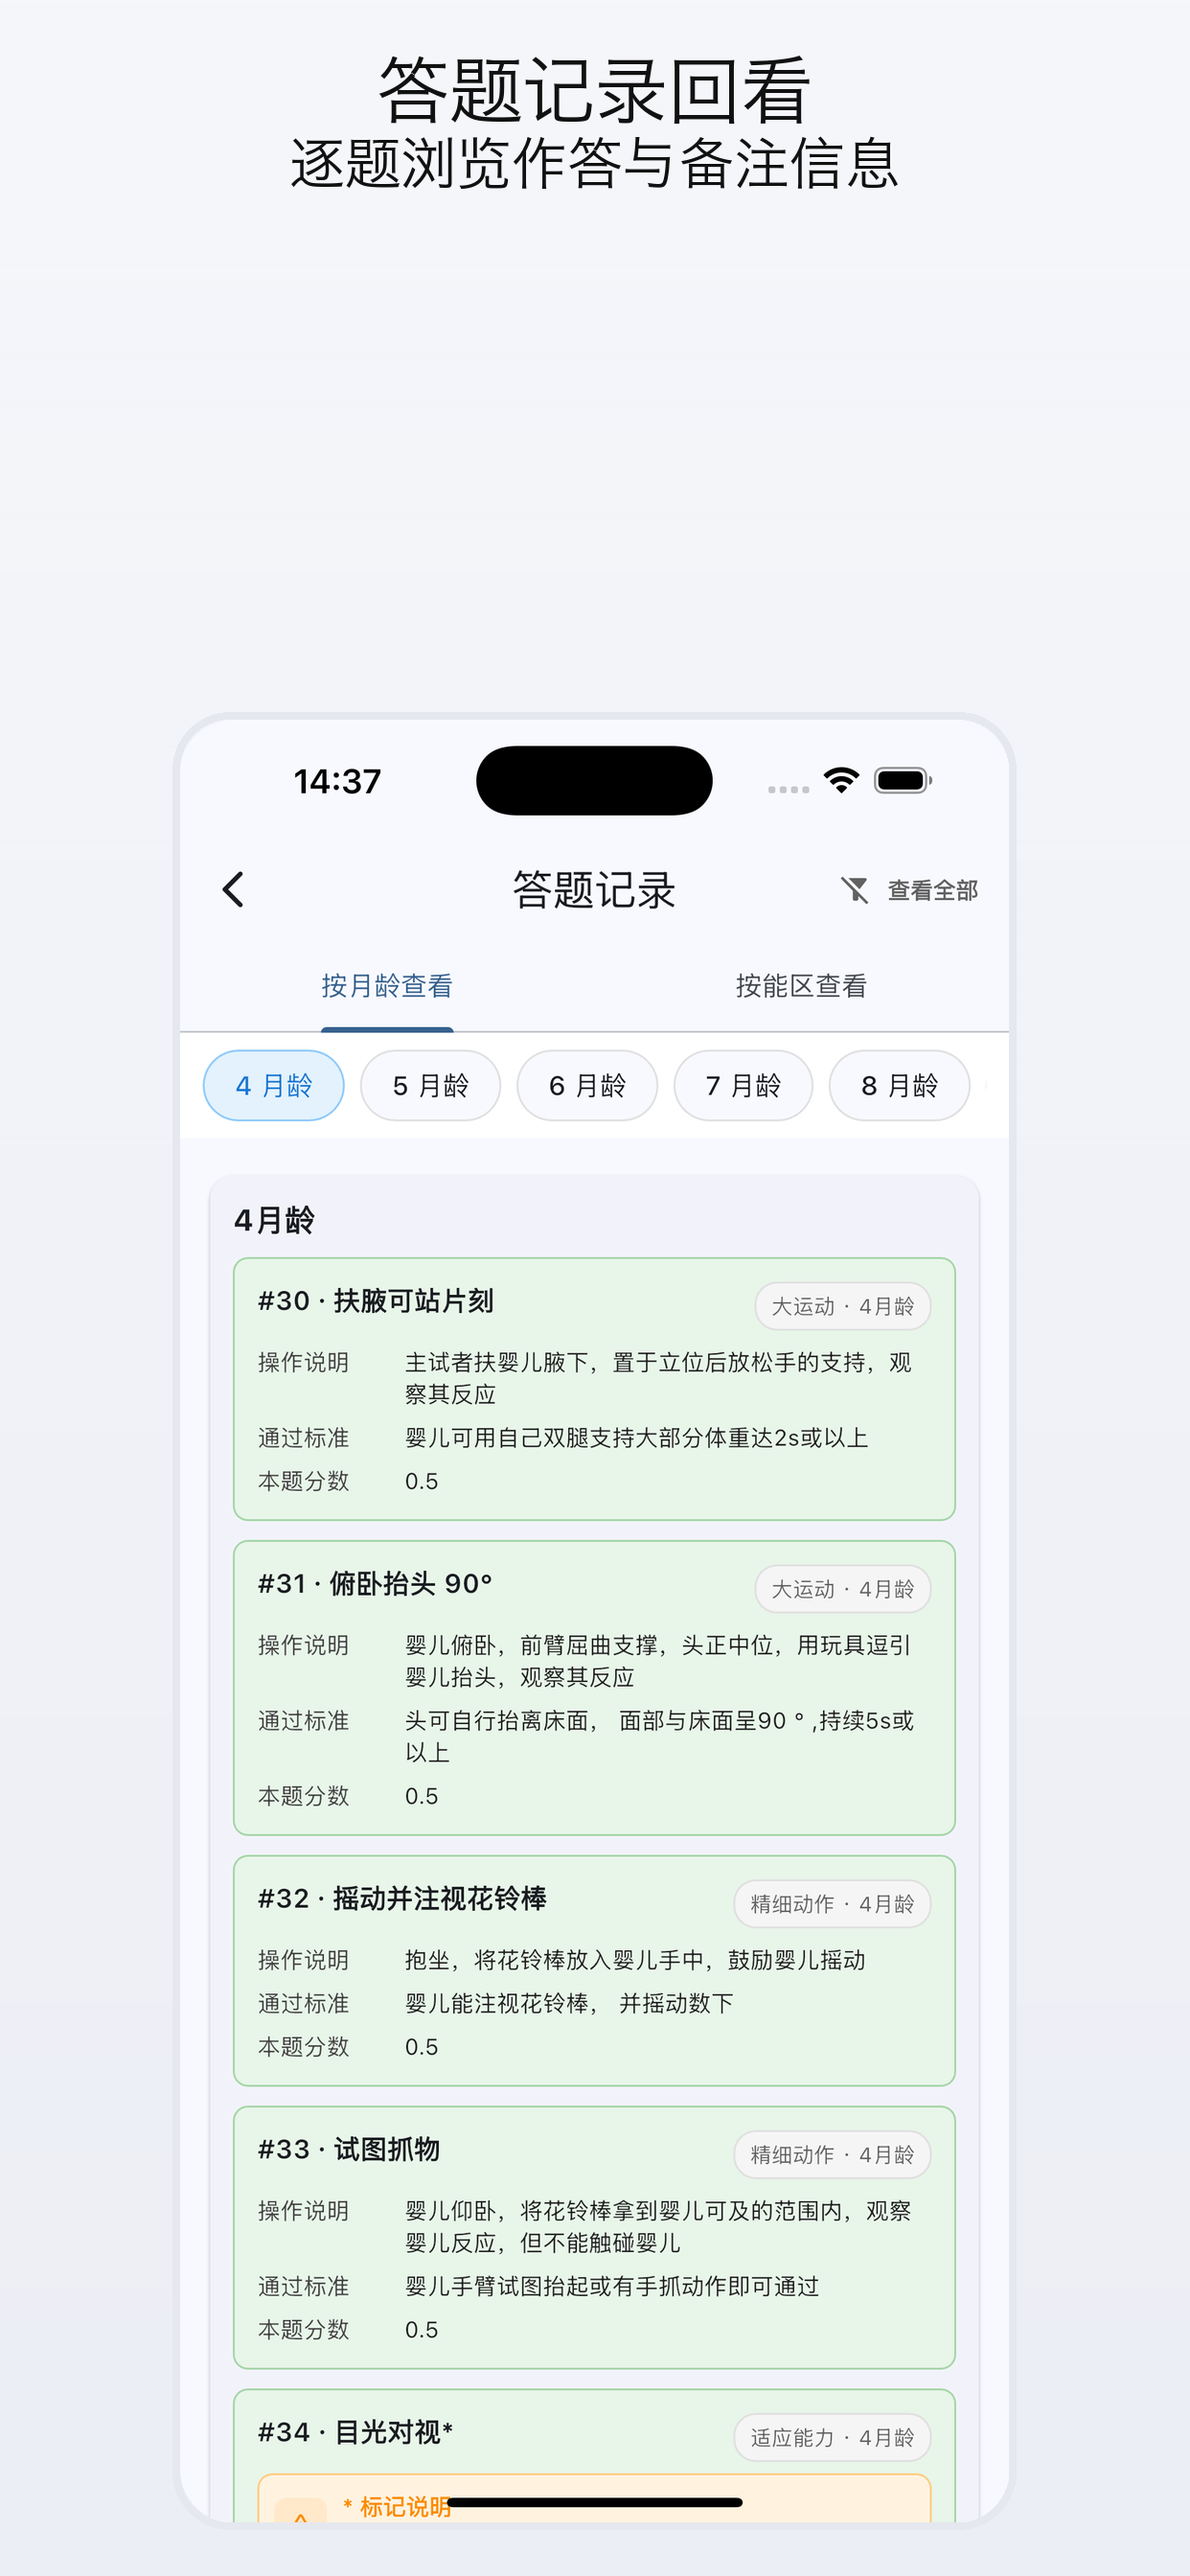
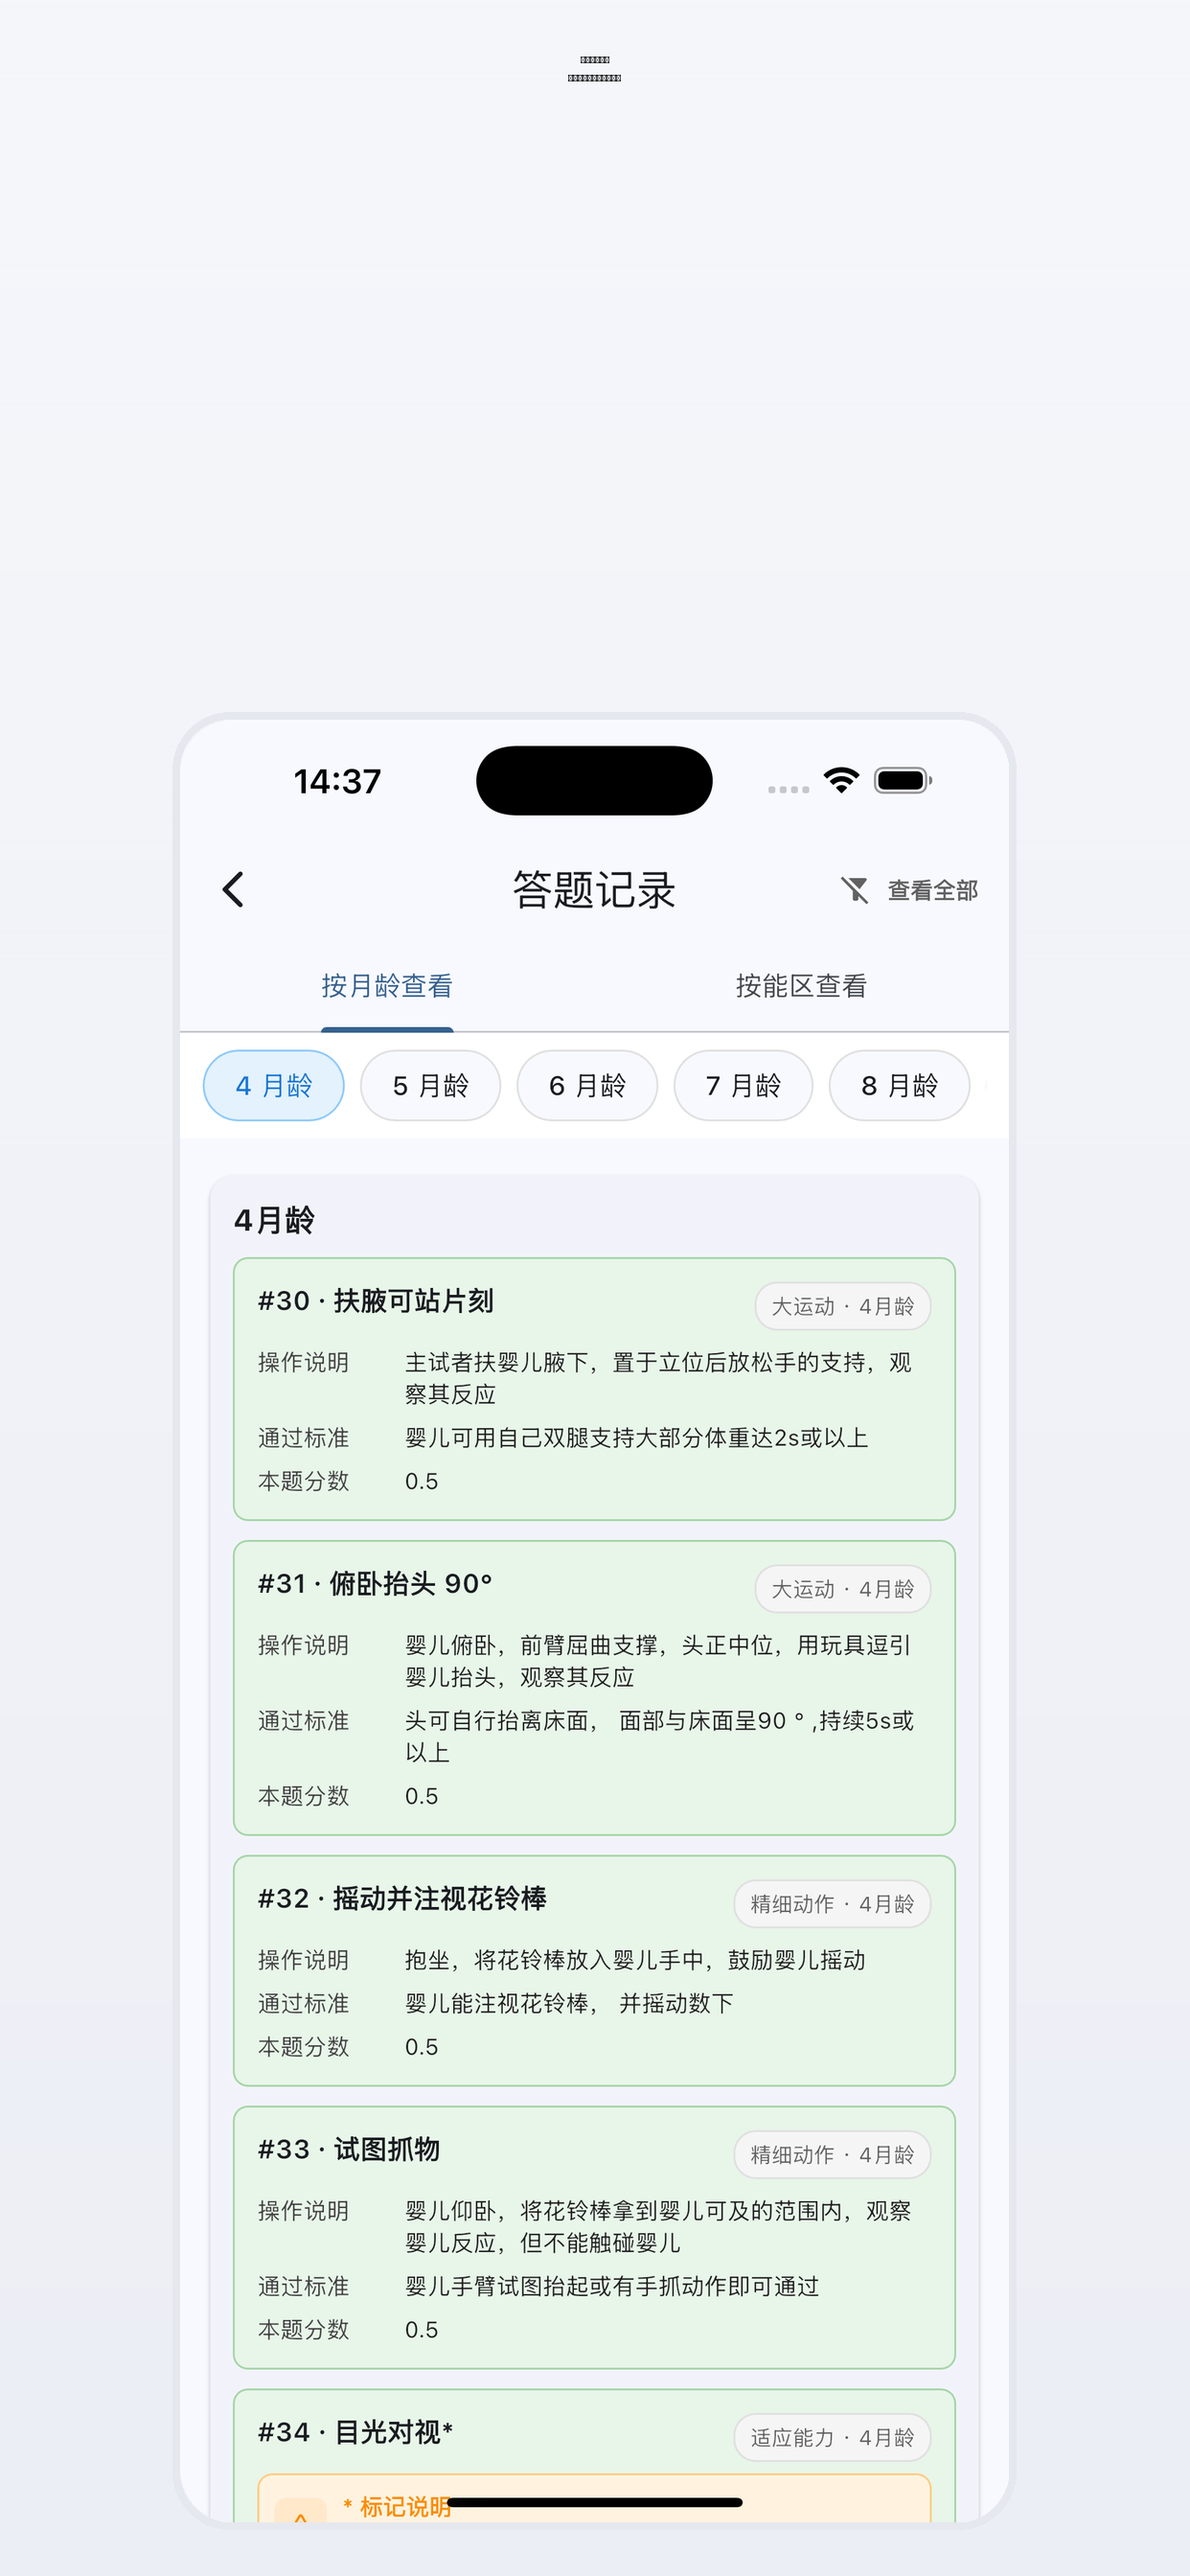
答题记录: 使用 Scrollable.ensureVisible 简化分段跳转；移除按月龄滚动监听避免与跳转冲突

Changed region(s): [[0.2448, 0.0, 0.7037, 0.0938]]

diff --git a/child_development_assessment/lib/pages/answer_record_page.dart b/child_development_assessment/lib/pages/answer_record_page.dart
@@ -43,7 +43,8 @@ class _AnswerRecordPageState extends State<AnswerRecordPage> with SingleTickerPr
     _tabController = TabController(length: 2, vsync: this);
     _tabController.addListener(_onTabChanged);
     _load();
-    _ageScrollController.addListener(_onAgeScroll);
+    // 简化：去掉按月龄视图的滚动监听，避免高亮逻辑影响跳转
+    // _ageScrollController.addListener(_onAgeScroll);
     _areaScrollController.addListener(_onAreaScroll);
   }
 
@@ -235,20 +236,18 @@ class _AnswerRecordPageState extends State<AnswerRecordPage> with SingleTickerPr
 
   void _scrollToAge(int age) {
     final key = _ageSectionKeys[age];
-    if (key?.currentContext == null) return;
-    final renderObject = key!.currentContext!.findRenderObject();
-    if (renderObject == null) return;
-    final viewport = RenderAbstractViewport.of(renderObject);
-    if (viewport == null) return;
-    final target = viewport.getOffsetToReveal(renderObject, 0).offset - 56; // 减去pinned header高度
-    final clamped = target.clamp(0.0, _ageScrollController.position.maxScrollExtent);
-    _ageScrollController.animateTo(
-      clamped,
+    final ctx = key?.currentContext;
+    if (ctx == null) return;
+    // 最简单可靠的方式：直接确保目标可见
+    Scrollable.ensureVisible(
+      ctx,
       duration: const Duration(milliseconds: 300),
       curve: Curves.easeInOut,
+      alignment: 0.0,
+      alignmentPolicy: ScrollPositionAlignmentPolicy.keepVisibleAtStart,
     );
-    // 动画结束后校正高亮
-    Future.delayed(const Duration(milliseconds: 320), _updateCurrentAgeSection);
+    // 直接设置当前高亮，避免依赖滚动监听
+    setState(() => _currentAgeSection = age);
   }
 
   // =============== 按能区查看 ===============

diff --git a/scripts/generate_appstore_screenshots.py b/scripts/generate_appstore_screenshots.py
@@ -144,6 +144,7 @@ def _open_font_candidates() -> List[str]:
         str(Path.home() / "Library/Fonts/NotoSansSC-Regular.otf"),
         str(Path.home() / "Library/Fonts/NotoSansTC-Regular.otf"),
         str(Path.home() / "Library/Fonts/NotoSansCJKsc-Regular.otf"),
+        str(Path.home() / "Library/Fonts/NotoSansCJK.ttc"),
         str(Path.home() / "Library/Fonts/NotoSansSC-Regular.ttf"),
         str(Path.home() / "Library/Fonts/NotoSansTC-Regular.ttf"),
         str(Path.home() / "Library/Fonts/NotoSansCJKsc-Regular.ttf"),
@@ -154,6 +155,7 @@ def _open_font_candidates() -> List[str]:
 
         # 系统字体目录（如有）
         "/Library/Fonts/NotoSansSC-Regular.otf",
+        "/Library/Fonts/NotoSansCJK.ttc",
         "/Library/Fonts/NotoSansSC-Regular.ttf",
         "/Library/Fonts/NotoSansCJKsc-Regular.otf",
         "/Library/Fonts/NotoSansCJKsc-Regular.ttf",
